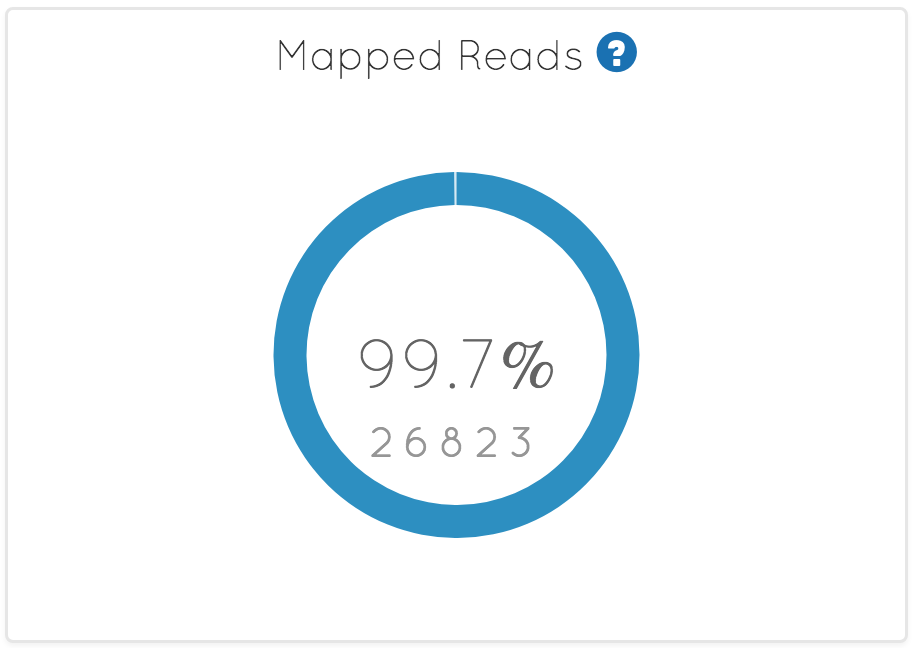
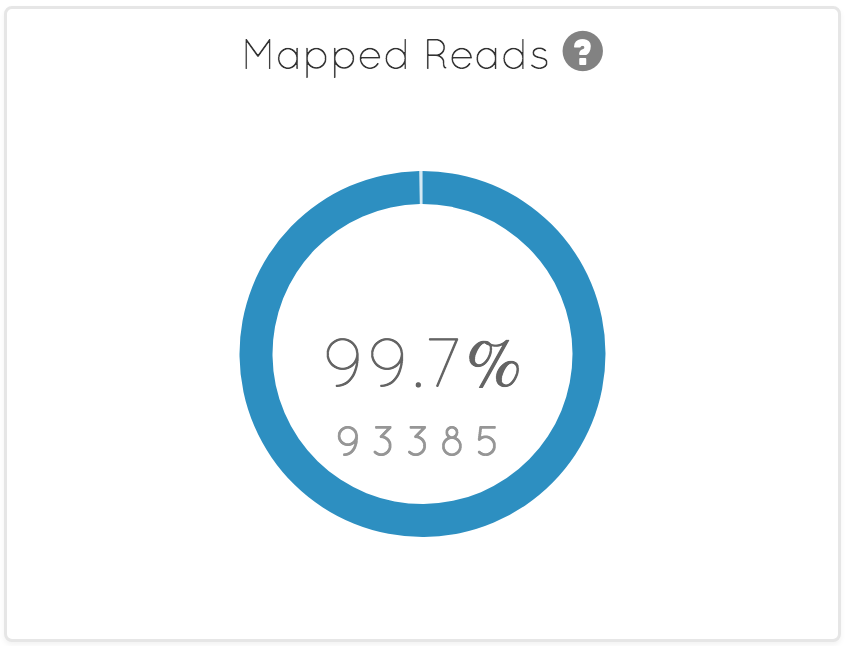
Added more help information.

diff --git a/index.html b/index.html
@@ -113,6 +113,30 @@
                   });
                 });
 
+                $("#fragment_help").click(function() {
+                  $("#fragmentModal").modal({
+                    show: true
+                  });
+                });
+
+                $("#length_help").click(function() {
+                  $("#lengthModal").modal({
+                    show: true
+                  });
+                });
+
+                $("#base_qual_help").click(function() {
+                  $("#baseQualModal").modal({
+                    show: true
+                  });
+                });
+
+                $("#map_qual_help").click(function() {
+                  $("#mapQualModal").modal({
+                    show: true
+                  });
+                });
+
                 // $("#read-coverage-distribution input[type='checkbox']").change(function(){
                 //     if ($(this).parent().hasClass("checked"))
                 //         window.readCoverageDistChart(hist2array(window.sampleStats.coverage_hist), { noOutliers : false })
@@ -1007,7 +1031,7 @@
 
                       <!-- Mapped reads chart -->
                       <div id="mapped_reads" class="percent panel">Mapped Reads
-                          <span class="glyphicon glyphicon-question-sign" style="color:#828282" aria-hidden="true" id="mapped_reads_help"></span>
+                          <span class="glyphicon glyphicon-info-sign" aria-hidden="true" id="mapped_reads_help"></span>
                           <div class="samplingLoader">Sampling <img src="images/loading_dots.gif"/></div>
                           <div class='chart'></div>
                           <div class='from-index'>* full data available in index</div>
@@ -1026,14 +1050,14 @@
                                 The mapped reads chart shows how many of the reads in the sample were successfully mapped to the reference genome. Genetic variation, in particular structural variants, ensure that every sequenced sample is genetically different to the reference genome it was aligned to. If the sample differs only in a small number of single base pair changes (e.g. SNVs), the read will still likely map to the reference, but, for more significant variation, the read can fail to be placed. Therefore, it is not expected that the mapped reads rate will hit 100%, but it is expected to be high (usually >90%).
                               </div>
                               <div style="width:35%; float:left; padding:15px; padding-bottom:35px;">
-                                <img title="Mapped Reads High" style="width:100%; padding-top:10px; padding-bottom:15px;"  src="images/mapped_reads_high.png"></img>
-                                <img title="Mapped Reads High Green" style="width:100%;padding-bottom:20px;"  src="images/mapped_reads_high_green.png"></img>
-			        <img title="Mapped Reads Low" style="width:100%;"  src="images/mapped_reads_low.png"></img>
+                                <img title="Acceptable mapped reads rate" style="width:100%; padding-bottom:15px;"  src="images/mapped_reads_high.png"></img>
+                                <img title="Mapped reads including unmapped reads" style="width:100%;padding-bottom:20px;"  src="images/mapped_reads_high_green.png"></img>
+			        <img title="Problematic mapped reads rate" style="width:100%;"  src="images/mapped_reads_low.png"></img>
                               </div>
                               <div style="width:65%; float:left; padding:15px;">
-                                <div>This is an example of a human, whole exome. In this case, 99.7% of the sampled reads map to the reference, corresponding to 26,823 actual reads. It is important to note that when the wheel is blue, only reads that have been assigned to a reference sequence are included. This means that the 0.3% of reads that are unmapped have a mate pair that successfully maps to the reference genome.</div>
-                                <div style="padding-top:10px;">For the case that both mates from paired end sequencing are unmapped, they appear at the end of the BAM file. Usually, the number of such unmapped reads can be obtained from the index file. When this is possible, the wheel will appear in green, as shown for this whole genome sample.</div>
-                                <div style="padding-top:20px;">If the rate of mapped reads is low (usually below 90%), questions need to be asked about the sample to understand why so many reads are unmapped. The last example only has 71.5% of reads mapping to the reference genome for a whole genome sample. This was caused as the sample was contaminated with a significant amount of bacterial DNA; the DNA sample was obtained from a saliva sample, rather than a blood draw.</div>
+                                <div>This is an example of a human, whole exome. In this case, 99.7% of the sampled reads map to the reference, corresponding to 93,385 actual reads. It is important to note that when the wheel is blue, only reads that have been assigned to a reference sequence are included. This means that the 0.3% of reads that are unmapped have a mate pair that successfully maps to the reference genome.</div>
+                                <div style="padding-top:20px;">For the case that both mates from paired end sequencing are unmapped, they appear at the end of the BAM file. Usually, the number of such unmapped reads can be obtained from the index file. When this is possible, the wheel will appear in green, as shown for this whole genome sample.</div>
+                                <div style="padding-top:40px;">If the rate of mapped reads is low (usually below 90%), questions need to be asked about the sample to understand why so many reads are unmapped. The last example only has 71.5% of reads mapping to the reference genome for a whole genome sample. This was caused as the sample was contaminated with a significant amount of bacterial DNA; the DNA sample was obtained from a saliva sample, rather than a blood draw.</div>
                               </div>
                             </div>
                             <div class="modal-footer">
@@ -1045,7 +1069,7 @@
 
                       <!-- Strands chart -->
                       <div id="forward_strands" class="percent panel">Forward Strand
-                          <span class="glyphicon glyphicon-question-sign" style="color:#828282" aria-hidden="true" id="strands_help"></span>
+                          <span class="glyphicon glyphicon-info-sign" aria-hidden="true" id="strands_help"></span>
                           <div class="samplingLoader">Sampling <img src="images/loading_dots.gif"/></div>
                           <div class='chart'></div>
                       </div>
@@ -1060,17 +1084,7 @@
                             </div>
                             <div class="modal-body" style="overflow:auto;">
                               <div style="width:100%; float:left; padding:15px;">
-                                The mapped reads chart shows how many of the reads in the sample were successfully mapped to the reference genome. Genetic variation, in particular structural variants, ensure that every sequenced sample is genetically different to the reference genome it was aligned to. If the sample differs only in a small number of single base pair changes (e.g. SNVs), the read will still likely map to the reference, but, for more significant variation, the read can fail to be placed. Therefore, it is not expected that the mapped reads rate will hit 100%, but it is expected to be high (usually >90%).
-                              </div>
-                              <div style="width:35%; float:left; padding:15px; padding-bottom:35px;">
-                                <img title="Mapped Reads High" style="width:100%; padding-top:10px; padding-bottom:15px;"  src="images/mapped_reads_high.png"></img>
-                                <img title="Mapped Reads High Green" style="width:100%;padding-bottom:20px;"  src="images/mapped_reads_high_green.png"></img>
-			        <img title="Mapped Reads Low" style="width:100%;"  src="images/mapped_reads_low.png"></img>
-                              </div>
-                              <div style="width:65%; float:left; padding:15px;">
-                                <div>This is an example of a human, whole exome. In this case, 99.7% of the sampled reads map to the reference, corresponding to 26,823 actual reads. It is important to note that when the wheel is blue, only reads that have been assigned to a reference sequence are included. This means that the 0.3% of reads that are unmapped have a mate pair that successfully maps to the reference genome.</div>
-                                <div style="padding-top:10px;">For the case that both mates from paired end sequencing are unmapped, they appear at the end of the BAM file. Usually, the number of such unmapped reads can be obtained from the index file. When this is possible, the wheel will appear in green, as shown for this whole genome sample.</div>
-                                <div style="padding-top:20px;">If the rate of mapped reads is low (usually below 90%), questions need to be asked about the sample to understand why so many reads are unmapped. The last example only has 71.5% of reads mapping to the reference genome for a whole genome sample. This was caused as the sample was contaminated with a significant amount of bacterial DNA; the DNA sample was obtained from a saliva sample, rather than a blood draw.</div>
+                                The forward strand chart shows the fraction of reads that map to the forward DNA strand. The general expectation is that the DNA library preparation step will generate DNA from the forward and reverse strands in equal amounts. After mapping the reads to the reference genome, approximately 50% of the reads will consequently map to the forward strand. If the observed rate is significantly different to 50%, this may be indicative of problems with the library preparation step.
                               </div>
                             </div>
                             <div class="modal-footer">
@@ -1082,30 +1096,123 @@
 
                       <!-- Proper pairs chart -->
                       <div id="proper_pairs" class="percent panel">Proper Pairs
-                          <span class="glyphicon glyphicon-question-sign" style="color:#828282" aria-hidden="true" id="proper_pairs_help"></span>
+                          <span class="glyphicon glyphicon-info-sign" aria-hidden="true" id="proper_pairs_help"></span>
                           <div class="samplingLoader">Sampling <img src="images/loading_dots.gif"/></div>
                           <div class='chart'></div>
+                      </div>
+
+                      <!-- Proper pairs modal -->
+                      <div id="properPairsModal" class="modal fade" role="dialog">
+                        <div class="modal-dialog" style="width:700px;">
+                          <div class="modal-content">
+                            <div class="modal-header">
+                              <button type="button" class="close" data-dismiss="modal">&times;</button>
+                              <h4 class="modal-title">Proper Pairs</h4>
+                            </div>
+                            <div class="modal-body" style="overflow:auto;">
+                              <div style="width:100%; float:left; padding:15px;">
+                                A fragment consisting of two <i>mates</i> is called a proper pair if both <i>mates</i> map to the reference genome in a manner consistent with expectations. In particular, if the DNA library consists of fragments ~500 base pairs in length, and 100 base pair reads are sequenced from either end, the expectation would be that the two reads map to the reference genome separated by ~300 base pairs. If the sequenced sample contains large structural variants, e.g. a large insertion, reads mapping with a large separation would be a signal for this variant, and the reads would not be proper pairs. Based on the sequencing technology, there is also an expectation on the orientation of each read in the fragment. 
+                              </div>
+                              <div style="width:100%; float:left; padding:15px;">
+                                <i><strong>When calculating the proper pair rate, pairs where both mates are unmapped are not included in the analysis.</strong></i> As a consequence, the rate of proper pairs is expected to be well over 90%; even if the mapping rate itself is low as a result of bacterial contamination, for example.
+                              </div>
+                            </div>
+                            <div class="modal-footer">
+                              <button type="button" class="btn btn-default" data-dismiss="modal">Close</button>
+                            </div>
+                          </div>
+                        </div>
                       </div>
 
                       <!-- Singletons chart -->
                       <div id="singletons" class="percent panel">Singletons
-                          <span class="glyphicon glyphicon-question-sign" style="color:#828282" aria-hidden="true" id="singletons_help"></span>
+                          <span class="glyphicon glyphicon-info-sign" aria-hidden="true" id="singletons_help"></span>
                           <div class="samplingLoader">Sampling <img src="images/loading_dots.gif"/></div>
                           <div class='chart'></div>
                       </div>
 
-                      <!-- Both pairs mapped chart -->
-                      <div id="both_mates_mapped" class="percent panel">Both Pairs Mapped
-                          <span class="glyphicon glyphicon-question-sign" style="color:#828282" aria-hidden="true" id="both_pairs_help"></span>
+                      <!-- Singletons modal -->
+                      <div id="singletonsModal" class="modal fade" role="dialog">
+                        <div class="modal-dialog" style="width:700px;">
+                          <div class="modal-content">
+                            <div class="modal-header">
+                              <button type="button" class="close" data-dismiss="modal">&times;</button>
+                              <h4 class="modal-title">Singletons</h4>
+                            </div>
+                            <div class="modal-body" style="overflow:auto;">
+                              <div style="width:100%; float:left; padding:15px;">
+                                When working with paired-end sequencing, each DNA fragment is sequenced from both ends, creating two <i>mates</i> for each pair. If one <i>mate</i> in the pair successfully maps to the reference genome, but the other is unmapped, the mapped mate is a <i>singleton</i>. One way in which a singleton could occur would be if the sample has a large insertion compared with the reference genome; one <i>mate</i> can fall in sequence flanking the insertion and will be mapped, but the other falls in the inserted sequence and so cannot map to the reference genome. There are unlikely to many such structural variants in the sample, or sequencing errors that would could cause a read to not be able to map. Consequently, the singleton rate is expected to be very low (<1%).
+                              </div>
+                            </div>
+                            <div class="modal-footer">
+                              <button type="button" class="btn btn-default" data-dismiss="modal">Close</button>
+                            </div>
+                          </div>
+                        </div>
+                      </div>
+
+                      <!-- Both mates mapped chart -->
+                      <div id="both_mates_mapped" class="percent panel">Both Mates Mapped
+                          <span class="glyphicon glyphicon-info-sign" aria-hidden="true" id="both_mapped_help"></span>
                           <div class="samplingLoader">Sampling <img src="images/loading_dots.gif"/></div>
                           <div class='chart'></div>
+                      </div>
+
+                      <!-- Both mates mapped modal -->
+                      <div id="bothMappedModal" class="modal fade" role="dialog">
+                        <div class="modal-dialog" style="width:700px;">
+                          <div class="modal-content">
+                            <div class="modal-header">
+                              <button type="button" class="close" data-dismiss="modal">&times;</button>
+                              <h4 class="modal-title">Both mates mapped</h4>
+                            </div>
+                            <div class="modal-body" style="overflow:auto;">
+                              <div style="width:100%; float:left; padding:15px;">
+                                When working with paired-end sequencing, each DNA fragment is sequenced from both ends, creating two <i>mates</i> for each pair. This chart shows the fraction of reads in pairs where both of the <i>mates</i> successfully map to the reference genome. <i><strong>When calculating this metric, pairs where both mates are unmapped are not included.</strong></i>.
+                              </div>
+                            </div>
+                            <div class="modal-footer">
+                              <button type="button" class="btn btn-default" data-dismiss="modal">Close</button>
+                            </div>
+                          </div>
+                        </div>
                       </div>
 
                       <!-- Duplicates chart -->
                       <div id="duplicates" class="percent panel">Duplicates
-                          <span class="glyphicon glyphicon-question-sign" style="color:#828282" aria-hidden="true" id="duplicates_help"></span>
+                          <span class="glyphicon glyphicon-info-sign" aria-hidden="true" id="duplicates_help"></span>
                           <div class="samplingLoader">Sampling <img src="images/loading_dots.gif"/></div>
                           <div class='chart'></div>
+                      </div>
+
+                      <!-- Duplicates modal -->
+                      <div id="duplicatesModal" class="modal fade" role="dialog">
+                        <div class="modal-dialog" style="width:700px;">
+                          <div class="modal-content">
+                            <div class="modal-header">
+                              <button type="button" class="close" data-dismiss="modal">&times;</button>
+                              <h4 class="modal-title">Duplicates</h4>
+                            </div>
+                            <div class="modal-body" style="overflow:auto;">
+                              <div style="width:100%; float:left; padding:15px;">
+                                PCR duplicates are two (or more) reads that originate from the same DNA fragment. When sequencing data is analysed, it is assumed that each observation (i.e. each read) is independent; an assumption that fails in the presence of duplicate reads. Typically, algorithms look for reads that map to the same genomic coordinate, and whose mates also map to identical genomic coordinates. It is important to note that as the sequencing depth increases, more reads are sampled from the DNA library, and consequently it is increasingly likely that duplicate reads will be sampled. As a result, the true duplicate rate is not independent of the depth, and they should both be considered when looking at the duplicate rate. Additionally, as the sequencing depth in increases, it is also increasingly likely that reads will map to the same location and be marked as duplicates, even when they are not. As such, as the sequencing depth approaches and surpasses the read length, the duplicate rate starts to become less indicative of problems.
+                              </div>
+                              <div style="width:35%; float:left; padding:15px; padding-bottom:35px;">
+                                <img title="Acceptable duplicate rate" style="width:100%; padding-bottom:15px;"  src="images/dup_good.png"></img>
+                                <img title="Acceptable duplicate rate" style="width:100%;padding-bottom:15px;"  src="images/dup_good_low_cov.png"></img>
+			        <img title="Potentially problematic duplicate rate" style="width:100%;"  src="images/dup_bad.png"></img>
+                              </div>
+                              <div style="width:65%; float:left; padding:15px;">
+                                <div style="padding-top:30px;">This is an example of the duplicate rate for a ~80X human whole genome. The expectation is that the duplicate rate is low (well below 10%), and consequently, this sample would be considered good.</div>
+                                <div style="padding-top:100px;">If the median coverage drops to ~50X, the duplicate rate should be even lower.</div>
+                                <div style="padding-top:100px;">This is a different sample with ~50X coverage, but now the duplicate rate is much higher. This sample could well have problems at the library prep stage and should potentially be resequenced.</div>
+                              </div>
+                            </div>
+                            <div class="modal-footer">
+                              <button type="button" class="btn btn-default" data-dismiss="modal">Close</button>
+                            </div>
+                          </div>
+                        </div>
                       </div>
                   </div>
 
@@ -1115,13 +1222,13 @@
                       <!-- Read coverage distribution chart -->
                       <div id="read-coverage-distribution" class="distribution panel">
                         <div>Read Coverage Distribution
-                          <span class="glyphicon glyphicon-question-sign" style="color:#828282" aria-hidden="true" id="read_coverage_distribution_help"></span>
+                          <span class="glyphicon glyphicon-info-sign" aria-hidden="true" id="read_coverage_distribution_help"></span>
                         </div>
                         <div class="samplingLoader">Sampling <img src="images/loading_dots.gif"/></div>
                         <div id="read-coverage-distribution-chart" class="chart focus" preserveAspectRatio="none" style="width:98%;height:90%"></div>
                       </div>
                       <div id="length-distribution" class="distribution panel">
-                          <div><div class="chart-chooser"><span class="selected" onclick="toggleChart(this,'lengthChart')" data-outlier="false" data-id="frag_hist">Insert Length</span> | <span onclick="toggleChart(this,'lengthChart')" data-id="length_hist" data-outlier="true">Read Length</span></div></div>
+                          <div><div class="chart-chooser"><span class="glyphicon glyphicon-info-sign" aria-hidden="true" id="fragment_help"></span><span class="selected" onclick="toggleChart(this,'lengthChart')" data-outlier="false" data-id="frag_hist">Fragment Length</span> | <span onclick="toggleChart(this,'lengthChart')" data-id="length_hist" data-outlier="true">Read Length</span><span class="glyphicon glyphicon-info-sign" aria-hidden="true" id="length_help"></span></div></div>
                           <label class="checkbox" for="checkbox2" style="position:absolute;right:10px;top:24px;cursor:pointer" >
                               <input type="checkbox"value="" class="outlier" data-toggle="checkbox" >
                               Outliers
@@ -1130,9 +1237,120 @@
                           <div id="length-distribution-chart" class="chart focus" preserveAspectRatio="none" style="width:98%;height:85%"></div>
                       </div>
                       <div id="mapping-quality-distribution" class="distribution panel">
-                          <div><div class="chart-chooser"><span onclick="toggleChart(this,'qualityChart')" data-id="mapq_hist" class="selected">Mapping Quality</span> | <span data-id="baseq_hist" onclick="toggleChart(this,'qualityChart')">Base Quality</span></div></div>
+                          <div><div class="chart-chooser"><span class="glyphicon glyphicon-info-sign" aria-hidden="true" id="map_qual_help"></span><span onclick="toggleChart(this,'qualityChart')" data-id="mapq_hist" class="selected">Mapping Quality</span> | <span data-id="baseq_hist" onclick="toggleChart(this,'qualityChart')">Base Quality</span><span class="glyphicon glyphicon-info-sign" aria-hidden="true" id="base_qual_help"></span></div></div>
                           <div class="samplingLoader">Sampling <img src="images/loading_dots.gif"/></div>
                           <div id="mapping-quality-distribution-chart" class="chart focus" preserveAspectRatio="none" style="width:98%;height:90%"></div>
+                      </div>
+
+                      <!-- Read coverage distribution modal -->
+                      <div id="readCoverageDistributionModal" class="modal fade" role="dialog">
+                        <div class="modal-dialog" style="width:700px;">
+                          <div class="modal-content">
+                            <div class="modal-header">
+                              <button type="button" class="close" data-dismiss="modal">&times;</button>
+                              <h4 class="modal-title">Read coverage distribution</h4>
+                            </div>
+                            <div class="modal-body" style="overflow:auto;">
+                              <div style="width:100%; float:left; padding:15px;">
+                                This chart shows how read coverage is distributed, and the expected distribution is dependent on the type of sequencing data being visualized.
+                              </div>
+                              <div style="width:100%; float:left; padding-left:15px;"><strong><i>Whole genome sequencing</i></strong></div>
+                              <div style="width:100%; float:left; padding:15px;">
+                                In a whole genome sequencing experiment, the expectation is that the read coverage follows a Poisson distribution centred about the requested sequencing depth. The following example shows a high quality read coverage distribution for a sample sequenced to ~50X coverage. The distribution shows a nice Poisson distribution, and is centred around ~53X. (Note that the second scale at the bottom of the chart can be used to zoom in on desired parts of the distribution).
+                                <img title="A good read coverage distribution" style="width:100%; padding-top:15px; padding-bottom:20px;"  src="images/read_coverage_dist_zoomed.png"></img>
+                                  Alternatively, if the distribution shows multiple peaks, isn't Poisson distributed, or is not centred around the expected coverage, it may be necessary to consider resequencing the sample, or at least, being aware that problems may arise in analysing the data. While the following distribution shows a median coverage around that expected (~80X), but with a significant portion of the genome at zero coverage and the multiple peaks, this would not be considered a good sample.
+                                <img title="A bad read coverage distribution" style="width:100%; padding-top:15px; padding-bottom:20px;"  src="images/read_coverage_dist_bad.png"></img>
+                              </div>
+                              <div style="width:100%; float:left; padding-left:15px;"><strong><i>Whole exome sequencing</i></strong></div>
+                              <div style="width:100%; float:left; padding:15px;">
+                                Exome sequencing relies on the targetted capture of DNA from the exome, followed by DNA amplification. This leads to large variation in the sequencing depth across exons, and consequently, the read coverage distribution is no longer expected to be Poisson distributed. When sampling across the entire genome, the majority of genomic regions will contain no sequencing reads as will are not exonic regions. This leads to a read coverage distribution overwhelmingly weighted to zero coverage as shown below.
+                                <img title="Exome sequencing" style="width:100%; padding-top:15px; padding-bottom:20px;"  src="images/read_coverage_dist_exome.png"></img>
+                                To restrict sampling to exonic regions, select the default bed file in the top 'Read Coverage' chart. It is also possible to select a custom bed file, if available. After selecting the default bed, the distribution above is updated to as shown below.
+                                <img title="Exome sequencing using default bed" style="width:100%; padding-top:15px; padding-bottom:20px;"  src="images/read_coverage_dist_exome_bed.png"></img>
+                                This does not have a Poisson distribution and shows the wide distribution of coverage in the exonic regions. The sequenced depth appears to be centred around ~50X, so if this is consistent with the requested depth, this sample would be considered good.
+                              </div>
+                            </div>
+                            <div class="modal-footer">
+                              <button type="button" class="btn btn-default" data-dismiss="modal">Close</button>
+                            </div>
+                          </div>
+                        </div>
+                      </div>
+
+                      <!-- Fragment length modal -->
+                      <div id="fragmentModal" class="modal fade" role="dialog">
+                        <div class="modal-dialog" style="width:700px;">
+                          <div class="modal-content">
+                            <div class="modal-header">
+                              <button type="button" class="close" data-dismiss="modal">&times;</button>
+                              <h4 class="modal-title">Fragment length distribution</h4>
+                            </div>
+                            <div class="modal-body" style="overflow:auto;">
+                              <div style="width:100%; float:left; padding:15px;">
+                              </div>
+                            </div>
+                            <div class="modal-footer">
+                              <button type="button" class="btn btn-default" data-dismiss="modal">Close</button>
+                            </div>
+                          </div>
+                        </div>
+                      </div>
+
+                      <!-- Read length modal -->
+                      <div id="lengthModal" class="modal fade" role="dialog">
+                        <div class="modal-dialog" style="width:700px;">
+                          <div class="modal-content">
+                            <div class="modal-header">
+                              <button type="button" class="close" data-dismiss="modal">&times;</button>
+                              <h4 class="modal-title">Read length distribution</h4>
+                            </div>
+                            <div class="modal-body" style="overflow:auto;">
+                              <div style="width:100%; float:left; padding:15px;">
+                              </div>
+                            </div>
+                            <div class="modal-footer">
+                              <button type="button" class="btn btn-default" data-dismiss="modal">Close</button>
+                            </div>
+                          </div>
+                        </div>
+                      </div>
+
+                      <!-- Mapping quality distribution modal -->
+                      <div id="mapQualModal" class="modal fade" role="dialog">
+                        <div class="modal-dialog" style="width:700px;">
+                          <div class="modal-content">
+                            <div class="modal-header">
+                              <button type="button" class="close" data-dismiss="modal">&times;</button>
+                              <h4 class="modal-title">Mapping quality distribution</h4>
+                            </div>
+                            <div class="modal-body" style="overflow:auto;">
+                              <div style="width:100%; float:left; padding:15px;">
+                              </div>
+                            </div>
+                            <div class="modal-footer">
+                              <button type="button" class="btn btn-default" data-dismiss="modal">Close</button>
+                            </div>
+                          </div>
+                        </div>
+                      </div>
+
+                      <!-- Base quality distribution modal -->
+                      <div id="baseQualModal" class="modal fade" role="dialog">
+                        <div class="modal-dialog" style="width:700px;">
+                          <div class="modal-content">
+                            <div class="modal-header">
+                              <button type="button" class="close" data-dismiss="modal">&times;</button>
+                              <h4 class="modal-title">Base quality distribution</h4>
+                            </div>
+                            <div class="modal-body" style="overflow:auto;">
+                              <div style="width:100%; float:left; padding:15px;">
+                              </div>
+                            </div>
+                            <div class="modal-footer">
+                              <button type="button" class="btn btn-default" data-dismiss="modal">Close</button>
+                            </div>
+                          </div>
+                        </div>
                       </div>
                   </div>
               </section>

diff --git a/css/site.css b/css/site.css
@@ -308,7 +308,10 @@ section#middle {
 }
 .arrow_box button { font:300 28px quicksand;}
 
-.glyphicon.glyphicon-question-sign {cursor: pointer;}
+.glyphicon.glyphicon-info-sign {
+    cursor: pointer;
+    color: #828282;
+}
 
 .input-title {
     margin: 0px auto;
